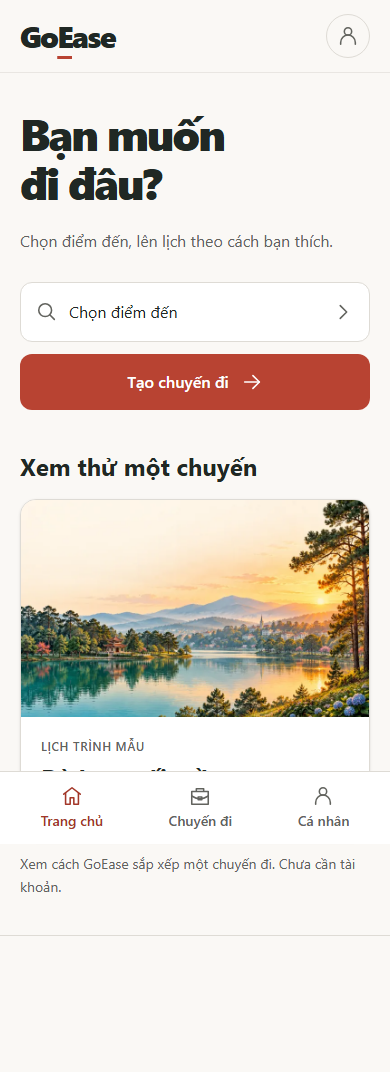
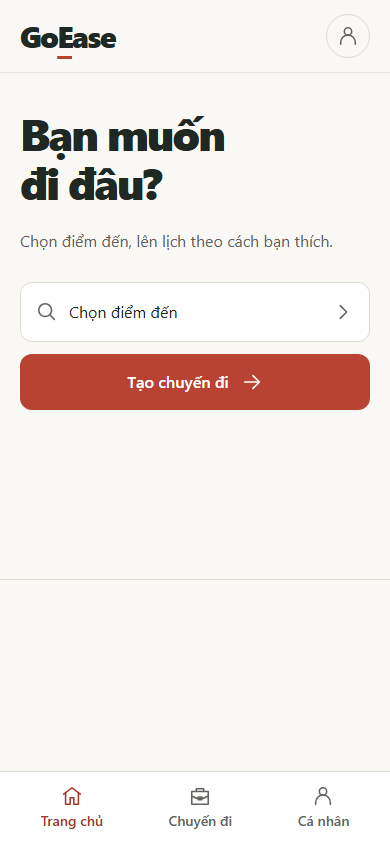
fix(web): remove sample trip section from home

diff --git a/apps/web/src/features/account/account-home.tsx b/apps/web/src/features/account/account-home.tsx
@@ -2,7 +2,6 @@ import { useState } from 'react';
 import { POPULAR_DESTINATIONS } from '@goease/contracts';
 import { Link } from '../../app/router';
 import { useAccount } from './session';
-import { ScenicImage } from '../../components/scenic-image';
 import { Icon } from '../../components/icon';
 
 export function AccountHome() {
@@ -10,8 +9,8 @@ export function AccountHome() {
   const [destinationId, setDestinationId] = useState('');
   const latest = trips.draft?.trip ?? trips.items[0];
   return (
-    <div className="mx-auto flex max-w-5xl flex-col gap-9 py-3 sm:py-6">
-      <div className="grid items-center gap-10 lg:grid-cols-2 lg:gap-14">
+    <div className="mx-auto flex w-full max-w-2xl flex-col gap-9 py-3 sm:py-6">
+      <div className="min-w-0">
         <section className="flex min-w-0 flex-col items-start gap-5">
           <span className="hidden text-sm font-semibold tracking-wider text-teal lg:block">
             ĐI MỘT CHUYẾN, THÊM MỘT CÂU CHUYỆN
@@ -59,30 +58,6 @@ export function AccountHome() {
               Tạo chuyến đi <Icon name="arrow" />
             </Link>
           </div>
-        </section>
-        <section className="min-w-0" aria-labelledby="sample-heading">
-          <h2 id="sample-heading" className="mb-4 text-2xl">
-            Xem thử một chuyến
-          </h2>
-          <Link href="/sample" className="surface group block overflow-hidden shadow-sm">
-            <ScenicImage
-              priority
-              className="aspect-[16/10] w-full object-cover transition-transform duration-200 motion-safe:group-hover:scale-[1.02]"
-            />
-            <div className="flex items-center justify-between gap-3 p-5">
-              <div>
-                <p className="text-xs font-medium tracking-wider text-muted uppercase">
-                  Lịch trình mẫu
-                </p>
-                <h3 className="mt-1 text-2xl">Đà Lạt cuối tuần</h3>
-                <p className="mt-1 text-sm text-muted">2 ngày · 2 người · Đi thong thả</p>
-              </div>
-              <Icon name="chevron" className="shrink-0 text-muted" />
-            </div>
-          </Link>
-          <p className="mt-3 text-sm text-muted">
-            Xem cách GoEase sắp xếp một chuyến đi. Chưa cần tài khoản.
-          </p>
         </section>
       </div>
       {trips.ready && latest && (

diff --git a/docs/qa/warm-refinement/README.md b/docs/qa/warm-refinement/README.md
@@ -9,7 +9,7 @@ Working tree sạch khi bắt đầu; không có `AGENTS.md` trong repo. Stack R
 | Hiện trạng | Giao diện và điểm truy cập mới |
 | --- | --- |
 | Toàn bộ app bị chặn bởi Google login | Trang chủ, `/sample`, `/about` được xem công khai; tạo/chỉnh/lưu vẫn yêu cầu Google và backend xác minh |
-| Trang chủ chứa cả dashboard và danh sách quản lý | Trang chủ có chọn điểm đến, CTA và mẫu được ghi nhãn; chuyến gần nhất khi có. Danh sách đầy đủ tại Chuyến đi |
+| Trang chủ chứa cả dashboard và danh sách quản lý | Trang chủ có chọn điểm đến, CTA và chuyến gần nhất khi có; đã bỏ phần chuyến mẫu theo yêu cầu bổ sung. Danh sách đầy đủ tại Chuyến đi |
 | Bốn mục Trang chủ / Chuyến đi / Tài khoản / Giới thiệu | Ba mục Trang chủ / Chuyến đi / Cá nhân. Giới thiệu, trợ giúp, dữ liệu cũ và dịch vụ được giữ trong Cá nhân |
 | Form hiển thị toàn bộ trường và sở thích | Điểm đến mở rộng để tìm; ngày, số ngày, số người, nhịp đi, tên; ngân sách/sở thích tùy chọn trong disclosure |
 | Lịch trình / Ngân sách / Bản đồ / Thông tin | Lịch trình / Bản đồ / Chi phí. Thông tin chuyến ở menu; địa chỉ, nguồn, giờ mở cửa, ghi chú trong Chi tiết cạnh hoạt động |
@@ -102,4 +102,4 @@ Người dùng đã chọn tài khoản trên Google; kiểm tra tab thật xác
 
 Sửa thêm race ở nút Thử lại: lỗi Auth có thể được hiển thị trước khi tác vụ restore/connect kết thúc, khiến lần bấm ngay sau lỗi bị bỏ qua. Lần bấm chủ động giờ đợi tác vụ đang chạy rồi khôi phục lại; kiểm tra lifecycle ngăn tiếp tục nếu đã đăng xuất/đổi tài khoản trong lúc chờ. Luồng hồi quy mất kết nối/khôi phục kiểm tra trường hợp này.
 
-Theo yêu cầu bổ sung, bỏ liên kết “Xem thử một chuyến trước” khỏi màn đăng nhập. Phần mẫu trên Trang chủ được giữ. Có assertion hồi quy trong luồng private-route/login; chạy lại typecheck, lint, build web và browser suite của màn tài khoản. Để tránh mở riêng web khi thiếu API, dùng `pnpm dev` cho lần khởi động thông thường và giữ terminal này chạy.
+Theo yêu cầu bổ sung, bỏ liên kết “Xem thử một chuyến trước” khỏi màn đăng nhập. Theo yêu cầu tiếp theo, phần “Xem thử một chuyến” trên Trang chủ cũng đã được bỏ; bố cục Trang chủ chuyển sang một cột giới hạn chiều rộng. Route mẫu vẫn được giữ để không làm hỏng liên kết cũ. Có assertion hồi quy trong luồng private-route/login; chạy lại typecheck, lint, build web và browser suite của màn tài khoản. Để tránh mở riêng web khi thiếu API, dùng `pnpm dev` cho lần khởi động thông thường và giữ terminal này chạy.
